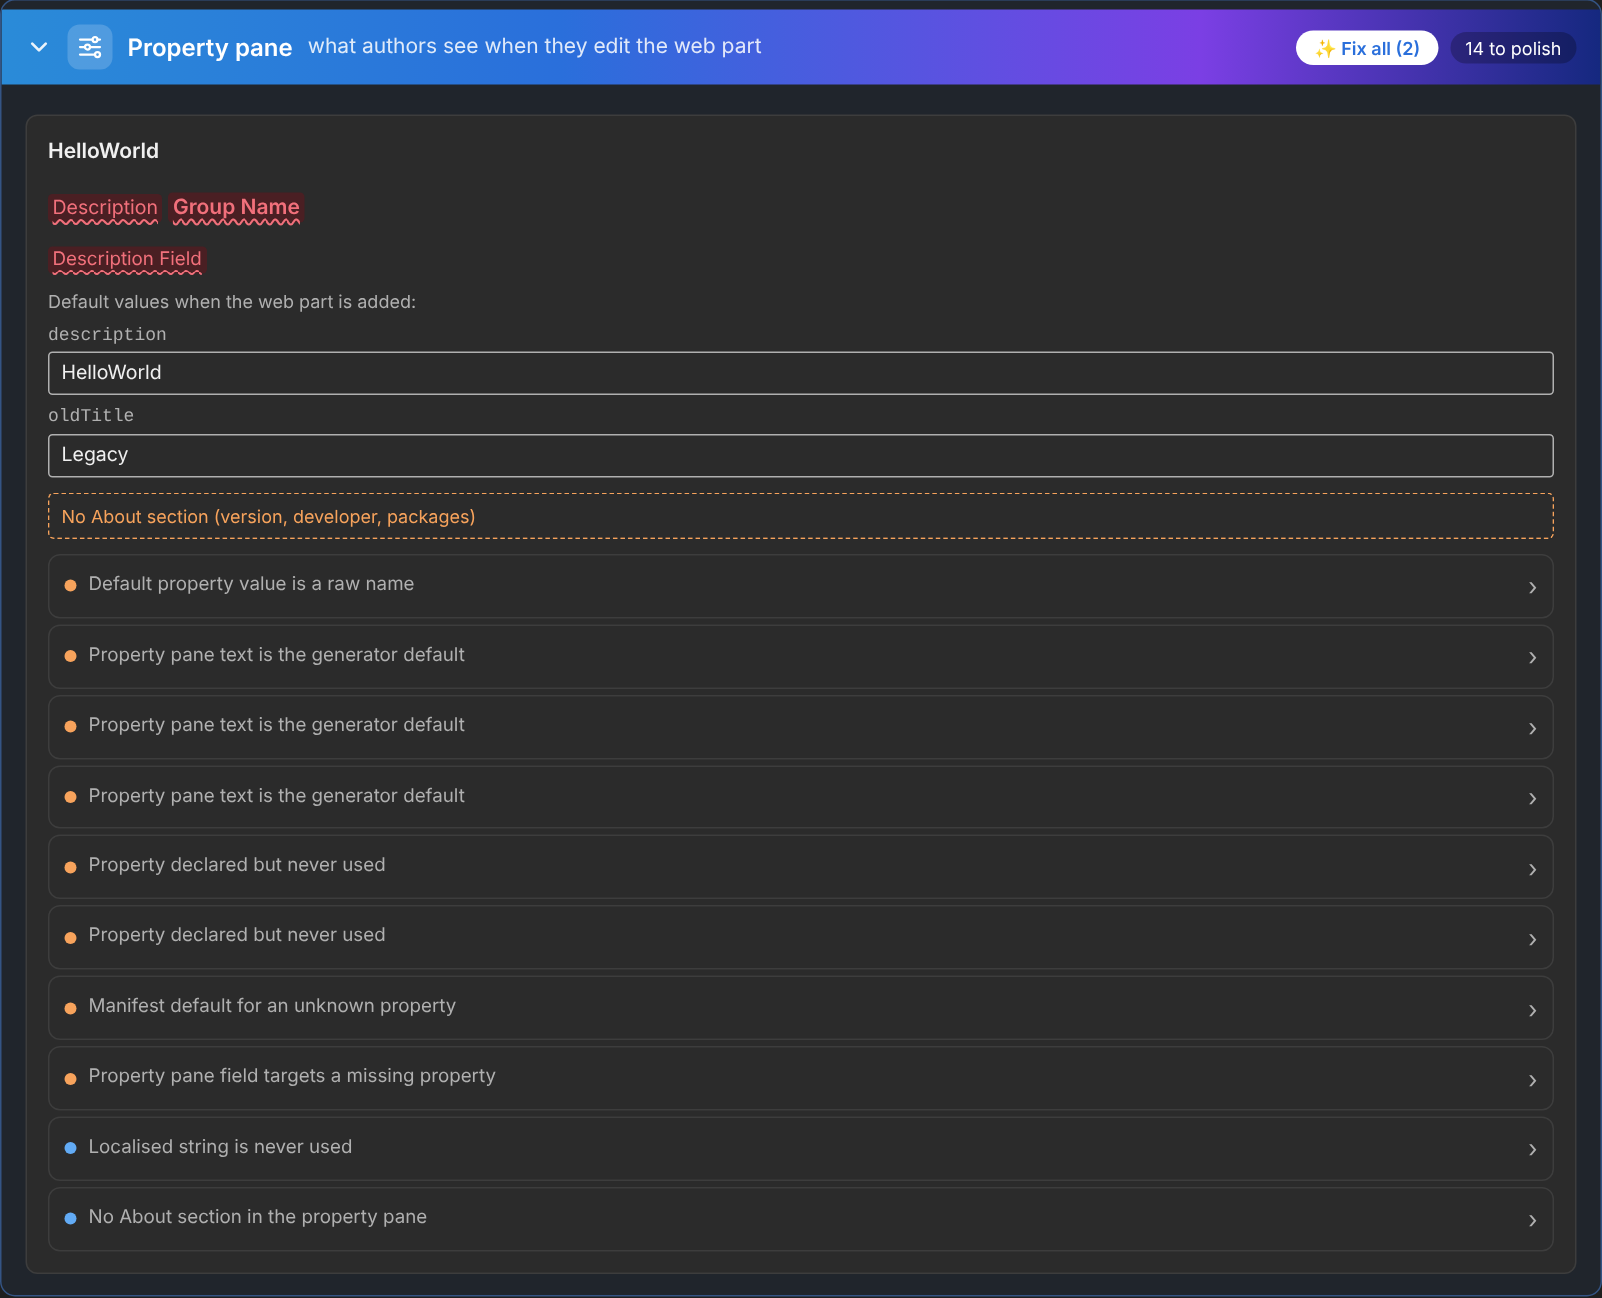
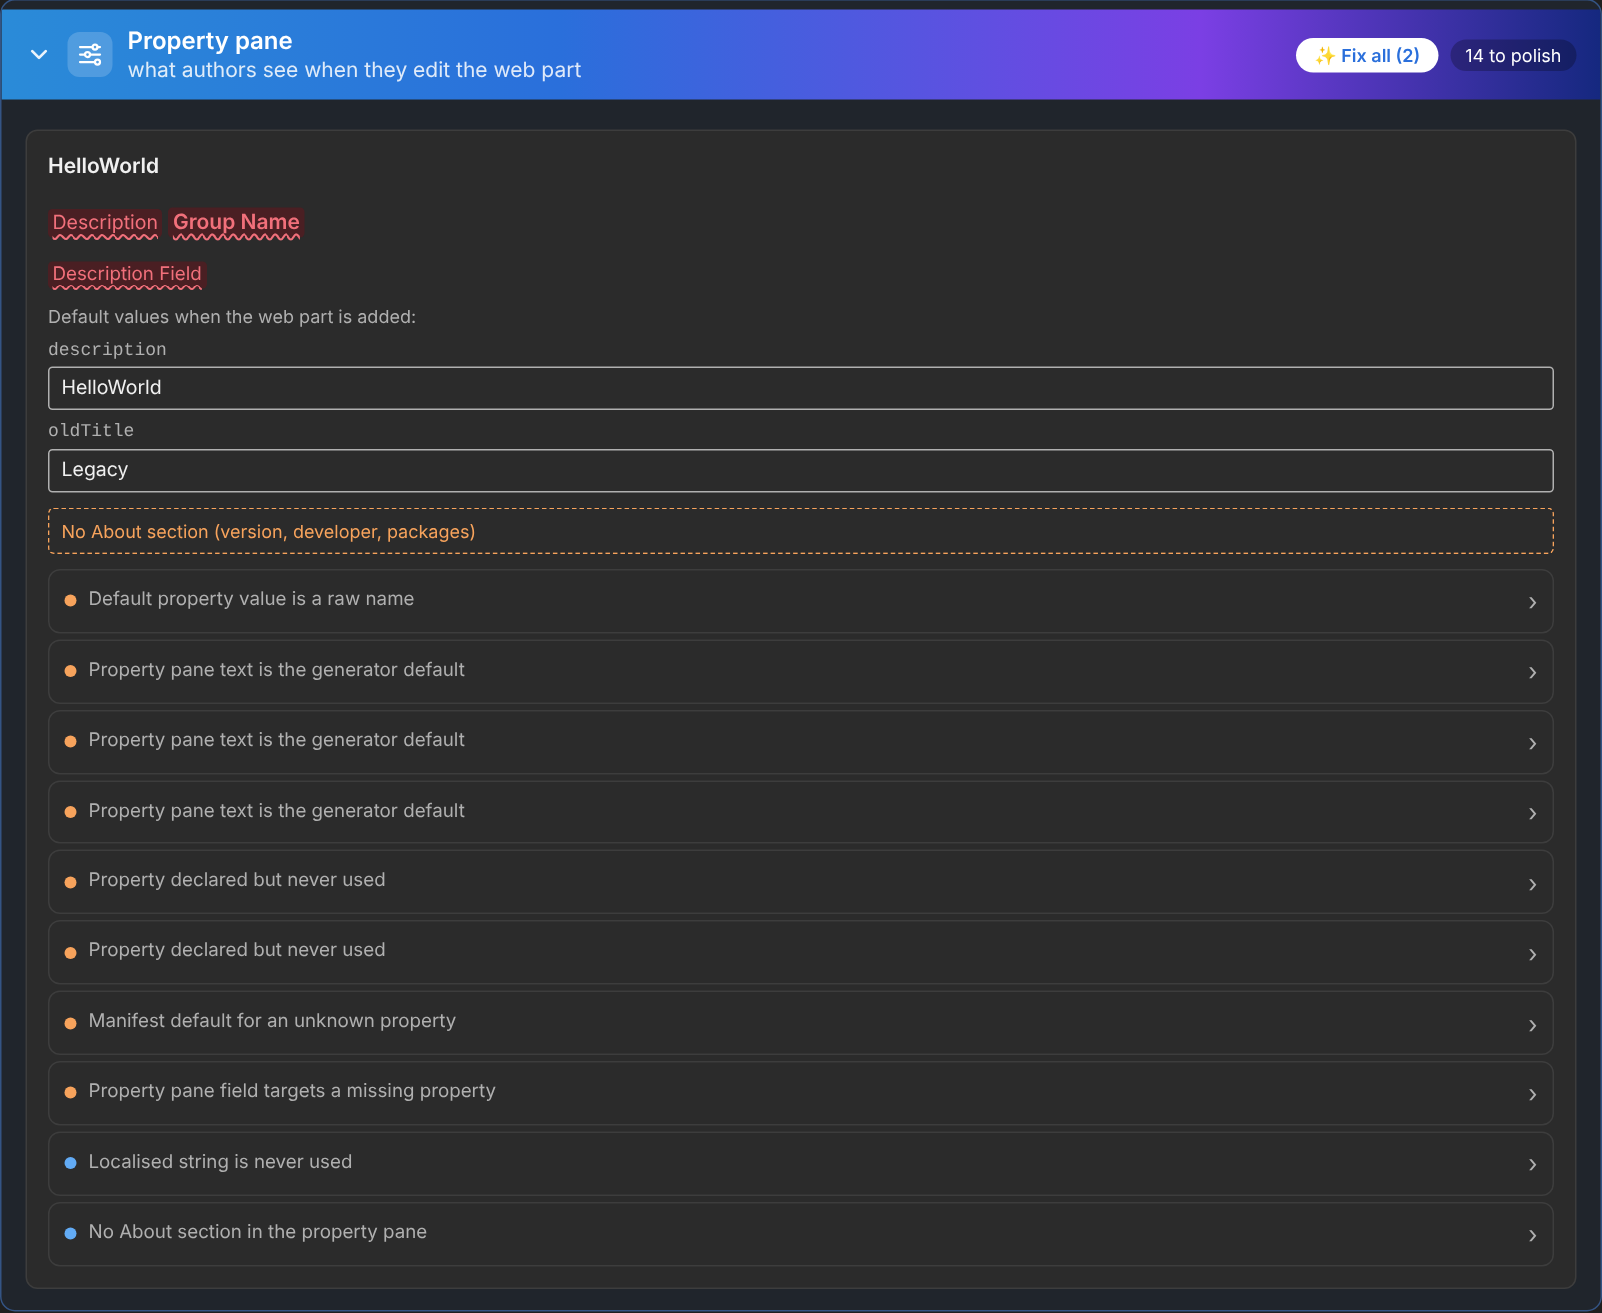
Report section bars: description under the title; folded bars without stripes

diff --git a/src/core/reportHtml.ts b/src/core/reportHtml.ts
@@ -291,7 +291,7 @@ function section(id: string, title: string, sub: string, colour: string, inner: 
   const badge = count === undefined ? '' : count ? `<span class="sbadge">${count} to polish</span>` : '<span class="sbadge ok">&#x2714; all nice</span>';
   void colour; // every section uses the same blue
   return `<details class="sec" id="${id}" open>
-    <summary class="sh"><div class="shl">${CHEVRON}<span class="sicon">${SECTION_ICONS[id] ?? ''}</span><span class="st">${esc(title)}</span><span class="ss">${esc(sub)}</span></div><div class="shr">${fixAll}${badge}</div></summary>
+    <summary class="sh"><div class="shl">${CHEVRON}<span class="sicon">${SECTION_ICONS[id] ?? ''}</span><span class="stt"><span class="st">${esc(title)}</span><span class="ss">${esc(sub)}</span></span></div><div class="shr">${fixAll}${badge}</div></summary>
     <div class="sb">${inner}</div>
   </details>`;
 }
@@ -388,15 +388,15 @@ html{scroll-behavior:smooth}
 .sh{display:flex;justify-content:space-between;align-items:center;gap:10px;flex-wrap:wrap;padding:10px 16px;background:linear-gradient(90deg,#2A8BD8 0%,#2A6FDB 35%,#7B3FE4 75%,#15287F 100%);color:#fff;cursor:pointer;list-style:none;user-select:none}
 .sh::-webkit-details-marker{display:none}
 .sh:hover{filter:brightness(.93)}
-.shl{display:flex;align-items:center;gap:10px;flex-wrap:wrap;min-width:0}
+.shl{display:flex;align-items:center;gap:10px;min-width:0}
 .chev{flex:none;transition:transform .15s;opacity:.9}
 .sec[open] > .sh .chev{transform:rotate(90deg)}
 .sicon{display:grid;place-items:center;width:30px;height:30px;border-radius:8px;background:rgba(255,255,255,.18);flex:none}
-.sec:not([open]){background:#15287F;border-color:#2A6FDB}
+.sec:not([open]){background:linear-gradient(90deg,#2A8BD8 0%,#2A6FDB 35%,#7B3FE4 75%,#15287F 100%);border-color:transparent}
 .sec:not([open]) > .sh{border-radius:0}
 .jump .tools{margin-left:auto;display:flex;gap:6px}
 .jump button{background:var(--card);color:var(--text);border:1px solid var(--line);border-radius:999px;font-size:12px;padding:3px 10px}
-.st,.ss{font-family:inherit;line-height:1.3}.st{font-size:16px;font-weight:600}.ss{font-size:14px;font-weight:400;opacity:.85}
+.stt{display:flex;flex-direction:column;gap:1px;min-width:0}.st,.ss{font-family:inherit;line-height:1.3}.st{font-size:16px;font-weight:600}.ss{font-size:14px;font-weight:400;opacity:.85}
 .sbadge{font-size:12px;background:rgba(0,0,0,.25);border-radius:999px;padding:2px 10px;white-space:nowrap}
 .sbadge.ok{background:rgba(255,255,255,.22);color:#fff}
 .sb{padding:14px 16px}
